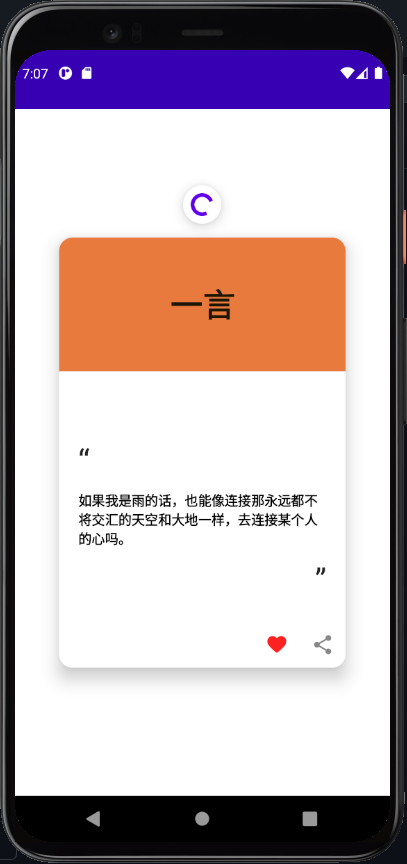
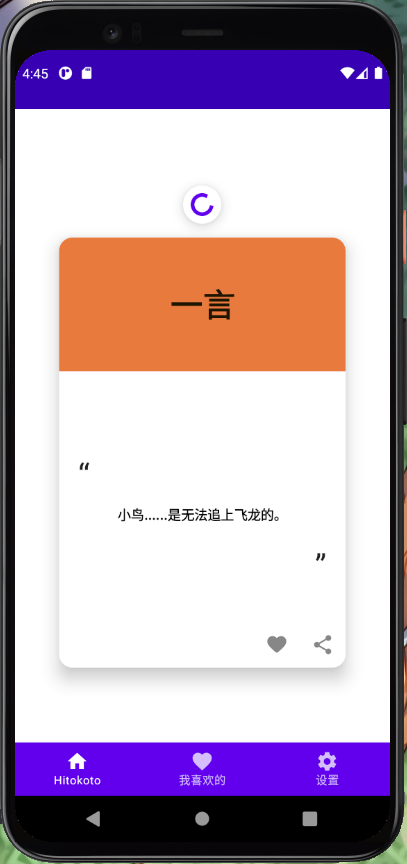
Update demo.png

diff --git a/app/src/main/java/com/compose/onetextbuilder/Sentence.kt b/app/src/main/java/com/compose/onetextbuilder/Sentence.kt
@@ -38,7 +38,7 @@ fun getOneText(viewModel:UiState) {
 }
 
 suspend fun v1Function() = withContext(Dispatchers.IO) {
-    val type = "a"
+    val type = "b"
     val url = URL("https://v1.hitokoto.cn?c=$type")
     var result = ""
 
